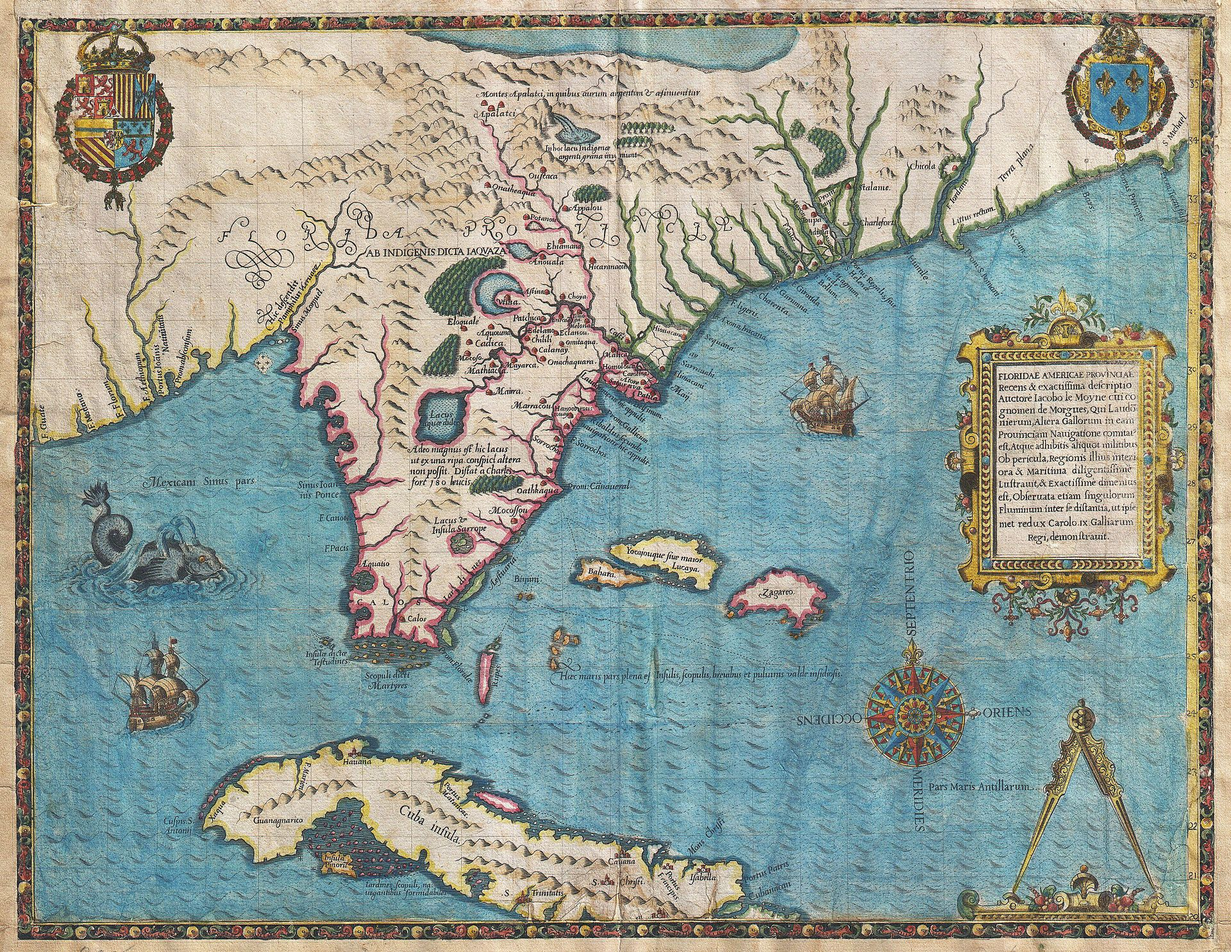
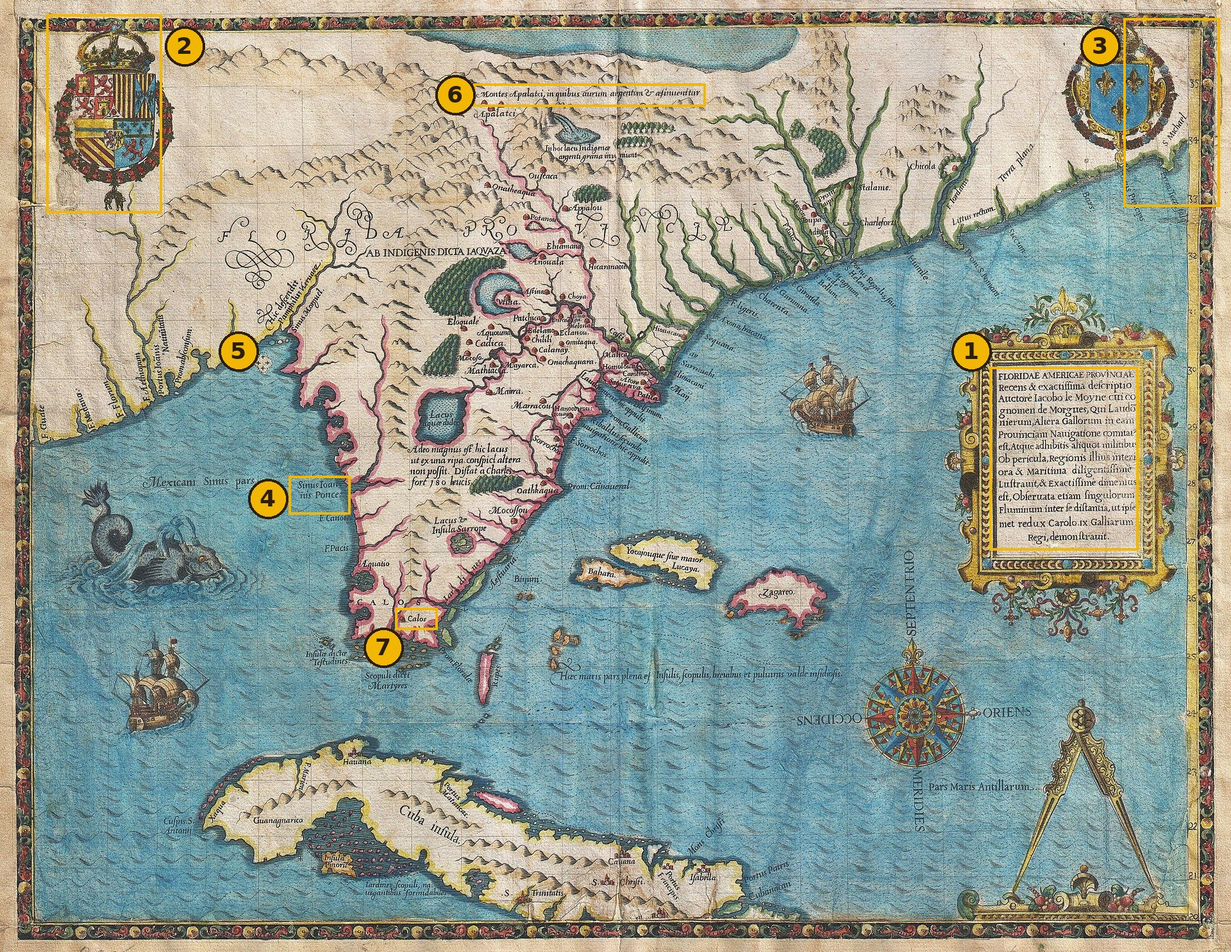
source: 4.06.01 — the map is the 1591 Le Moyne / de Bry map of Florida (a French artist, printed in 1591), not a Spanish map: honest label bar and placeholder (Wikimedia Commons, public domain), 7 numbered gold callouts (title box, Spanish and French coats of arms, Juan Ponce's Bay, 'Here Narváez la
Claude-Session: https://claude.ai/code/session_01AhGn1JfAqBGGPcary5Ayia

diff --git a/ss-4-06.01-early-european-exploration-of-florida.html b/ss-4-06.01-early-european-exploration-of-florida.html
@@ -2466,33 +2466,37 @@ body.tx-active .tx-toggle-label {
   <!-- OPTION: Source Study Card -->
   <div class="source-card">
     <div class="source-card-header">
-      <div class="source-card-header-icon">📜</div>
+      <div class="source-card-header-icon">🗺</div>
       <div>
         <div class="source-card-header-label">Source Study</div>
-        <div class="source-card-header-title">A 1500s Map of "La Florida"</div>
+        <div class="source-card-header-title">A Map of Florida, 1591</div>
       </div>
     </div>
     <div class="source-image-placeholder" data-image="source-4-06-01-early-florida-map">
       <div class="source-image-placeholder-text">
-        🖼 A 16th-century Spanish or European map showing Florida as "La Florida" — usually drawn with an exaggerated peninsula, sea monsters or ships in the surrounding waters, and Spanish or Latin labels for early settlements. Decorative cartouches and a compass rose are common. Suggested source: Library of Congress (loc.gov) Map Division — search "Florida 1500s" or "La Florida 1591"; Florida Memory (floridamemory.com) historic maps collection; Smithsonian Open Access (si.edu/openaccess) — search "early Florida map."<br><br>
+        🖼 “Floridae Americae Provinciae” (a map of the province of Florida in America), drawn by Jacques Le Moyne de Morgues, a French artist who sailed to Florida with René de Laudonnière in 1564, and printed by Theodor de Bry in 1591. Seven numbered labels: the title box, Spain’s coat of arms, France’s coat of arms, Juan Ponce’s Bay, “Here Narváez landed,” the mountains of gold and silver, and Calos (the Calusa). Source: Wikimedia Commons, “1591 De Bry and Le Moyne Map of Florida and Cuba - Geographicus - Florida-debry-1591.jpg” (public domain), https://commons.wikimedia.org/wiki/File:1591_De_Bry_and_Le_Moyne_Map_of_Florida_and_Cuba_-_Geographicus_-_Florida-debry-1591.jpg. Unlabeled original: source-4-06-01-early-florida-map-original.jpg.<br><br>
         <strong>Save your image as:</strong> <code style="background:rgba(0,0,0,0.06);padding:2px 8px;border-radius:4px;font-size:13px;">source-4-06-01-early-florida-map.jpg</code>
       </div>
     </div>
     <div class="source-card-body">
       <div class="source-label-bar">
-        <span class="src-type">Primary Source</span> · Spanish or European map of "La Florida," 1500s
+        <span class="src-type">Primary Source</span> · A map of Florida drawn by Jacques Le Moyne, a French artist who came to Florida in 1564, and printed by Theodor de Bry in 1591. Public domain, via Wikimedia Commons.
+      </div>
+      <div class="callout callout-vocab">
+        <div class="callout-icon">🔢</div>
+        <p><strong>The labels.</strong> North is at the top. The words on this map are in Latin. <strong>1</strong> · The title box says a French artist, Jacques Le Moyne, made this map. He sailed to Florida with the French in 1564 and showed the map to the king of France. <strong>2</strong> · Spain’s coat of arms. A coat of arms is a royal symbol, like a badge for a country’s king. <strong>3</strong> · France’s coat of arms. Two countries put their symbols on one map, because both wanted Florida. <strong>4</strong> · “Sinus Ioannis Ponce” means Juan Ponce’s Bay. It is named for Juan Ponce de León, who sailed along this coast in 1513. <strong>5</strong> · “Hic descendit Pamphilus Narvaez” means “Here Narváez landed.” The mapmaker put the landing far up the coast. Historians today think Narváez landed near Tampa Bay, so this label is a mistake. <strong>6</strong> · “Montes Apalatci” means the Apalatci Mountains. The words say gold, silver, and copper are found there. Explorers never found mountains of gold in Florida. <strong>7</strong> · “Calos” is the Calusa, the people who lived on Florida’s southwest coast. Their name is on the map, but they didn’t make it.</p>
       </div>
       <div class="callout callout-info">
         <div class="callout-icon">👁</div>
-        <p><strong>What do I see?</strong> Look at the map carefully. What is labeled? What looks decorative (ships, sea creatures, compass rose)?</p>
+        <p><strong>What do I see?</strong> You don’t have to read the old Latin. Use the numbered labels. What is labeled? What is only there to look nice, like the ships, the sea monster, and the compass rose?</p>
       </div>
       <div class="callout callout-think">
         <div class="callout-icon">💭</div>
-        <p><strong>What does it mean?</strong> A Spanish mapmaker drew this without ever seeing all of Florida from above. What can the map tell us about what Spanish people <em>thought</em> Florida was like — and what might be missing?</p>
+        <p><strong>What does it mean?</strong> A French artist drew this without ever seeing all of Florida from above. Look at labels 5 and 6. What can the map tell us about what Europeans <em>thought</em> Florida was like — and what might be missing?</p>
       </div>
       <div class="callout callout-tip">
         <div class="callout-icon">⚖</div>
-        <p><strong>Why does it matter?</strong> Whose voices are <em>missing</em> from this map? Where would a historian go to hear from the Calusa, Tequesta, Apalachee, or Timucua people who already lived here?</p>
+        <p><strong>Why does it matter?</strong> Look at label 7. Whose voices are <em>missing</em> from this map? Where would a historian go to hear from the Calusa, Tequesta, Apalachee, or Timucua people who already lived here?</p>
       </div>
     </div>
   </div>
